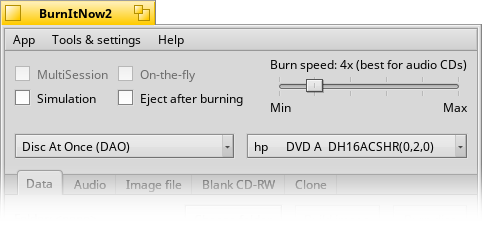
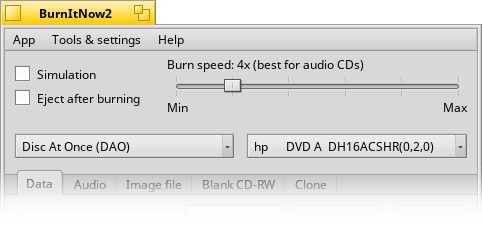
Remove checkboxes MultiSession and On-the-fly
These optins aren't implemented yet and the checkboxed were always
greyed out. I decided to remove them from the GUI for now. In any
way, they only apply to the DataView, if I understand them correctly,
and should therefore be moved there, once they are implemented.

Updated documentation and catkeys.

diff --git a/Docs/ReadMe.html b/Docs/ReadMe.html
@@ -153,15 +153,14 @@ Under <span class="menu">App</span> you can open the <span class="menu">About...
 <a href="#"><img src="images/up.png" style="border:none;float:right" alt="index" /></a>
 <a id="session" name="session">The Session Settings</a></h2>
 
-<p>The Session settings at the top of the window apply to all the different project modes described further down (besides blanking a CD-RW which doesn't need all those settings).</p>
+<p>The Session settings at the top of the window apply to all the different project modes described further down.</p>
 
 <div align = "center">
 <img src="./images/session_settings.png" alt="The session settings" />
 </div>
 
 <h3>Checkboxes</h3>
-<p>The features of the top two checkmarks <span class="menu">MultiSession</span> and <span class="menu">On-the-fly</span> are currently not implemented and are therefore grayed out.<br />
-<span class="menu">Simulation</span> is a dummy mode that goes through all the motions without actually burning anything onto the disc.<br />
+<p><span class="menu">Simulation</span> is a dummy mode that goes through all the motions without actually burning anything onto the disc.<br />
 <span class="menu">Eject after burning</span> does just that. A good way to remind you that your CD's finished while you're busy elsewhere.</p>
 
 <h3>Speed slider</h3>

diff --git a/Source/BurnWindow.cpp b/Source/BurnWindow.cpp
@@ -265,10 +265,11 @@ BurnWindow::_CreateToolBar()
 	// TODO These values should be obtained from the capabilities
 	// of the drive and the type of media
 
-	fMultiCheck = new BCheckBox("MultiSessionCheckBox",
-		B_TRANSLATE("MultiSession"), new BMessage());
-	fOntheflyCheck = new BCheckBox("OnTheFlyCheckBox",
-		B_TRANSLATE("On-the-fly"), new BMessage());
+//	Not implemented. Should be moved to DataView?
+//	fMultiCheck = new BCheckBox("MultiSessionCheckBox",
+//		B_TRANSLATE("MultiSession"), new BMessage());
+//	fOntheflyCheck = new BCheckBox("OnTheFlyCheckBox",
+//		B_TRANSLATE("On-the-fly"), new BMessage());
 	fSimulationCheck = new BCheckBox("SimulationCheckBox",
 		B_TRANSLATE("Simulation"), new BMessage());
 	fEjectCheck = new BCheckBox("EjectCheckBox",
@@ -288,9 +289,9 @@ BurnWindow::_CreateToolBar()
 	//Apply settings (and disable unimplemented options)
 	AppSettings* settings = my_app->Settings();
 
-	fMultiCheck->SetEnabled(false);
+//	fMultiCheck->SetEnabled(false);
+//	fOntheflyCheck->SetEnabled(false);
 	fEjectCheck->SetValue((int32)settings->GetEject());
-	fOntheflyCheck->SetEnabled(false);
 	fSpeedSlider->SetValue(settings->GetSpeed());
 	_UpdateSpeedSlider(NULL);
 
@@ -301,10 +302,10 @@ BurnWindow::_CreateToolBar()
 			.AddGroup(B_VERTICAL)
 				.AddGlue()
 				.AddGrid(kControlPadding, 0.0)
-					.Add(fMultiCheck, 0, 0)
-					.Add(fOntheflyCheck, 1, 0)
-					.Add(fSimulationCheck, 0, 1)
-					.Add(fEjectCheck, 1, 1)
+//					.Add(fMultiCheck, 0, 0)
+//					.Add(fOntheflyCheck, 1, 0)
+					.Add(fSimulationCheck, 0, 0)
+					.Add(fEjectCheck, 0, 1)
 					.End()
 				.AddGlue()
 				.End()
@@ -519,8 +520,8 @@ BurnWindow::GetSessionConfig()
 	else
 		fConfig.mode = "-sao";
 
-	fConfig.multisession = fMultiCheck->Value();
-	fConfig.onthefly = fOntheflyCheck->Value();
+//	fConfig.multisession = fMultiCheck->Value();
+//	fConfig.onthefly = fOntheflyCheck->Value();
 	fConfig.simulation = fSimulationCheck->Value();
 	fConfig.eject = fEjectCheck->Value();
 	// Speed slider value get's updated in _UpdateSpeedSlider()

diff --git a/Source/BurnWindow.h b/Source/BurnWindow.h
@@ -56,14 +56,14 @@ private:
 	void 			_OpenWebSite();
 	void 			_OpenHelp();
 	void 			_UpdateSpeedSlider(BMessage* message);
-	
+
 	BTabView* 		fTabView;
 
 	BMenu* 			fSessionMenu;
 	BMenu* 			fDeviceMenu;
 	BMenuItem*		fCacheQuitItem;
-	BCheckBox* 		fMultiCheck;
-	BCheckBox* 		fOntheflyCheck;
+//	BCheckBox* 		fMultiCheck;
+//	BCheckBox* 		fOntheflyCheck;
 	BCheckBox* 		fSimulationCheck;
 	BCheckBox* 		fEjectCheck;
 	BSlider* 		fSpeedSlider;
